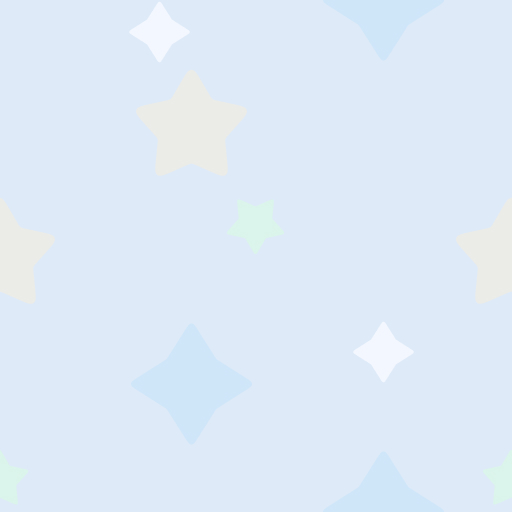
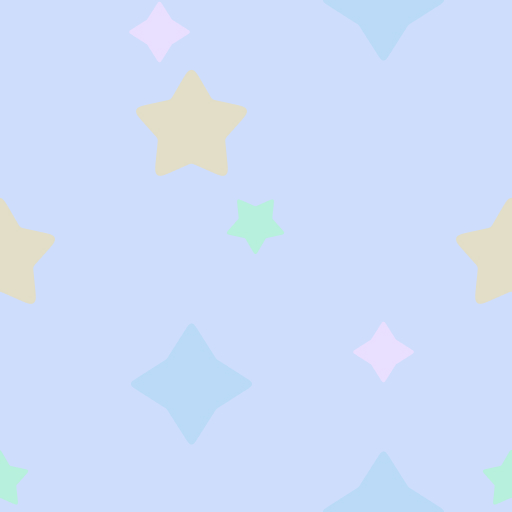
Removing SelectGames from BuildSetts. + BGs + Tab
+ BG patterns: Updating colors
+ Tab: Hidding Debug Log messages

diff --git a/Assets/Scripts/UI/Tab.cs b/Assets/Scripts/UI/Tab.cs
@@ -15,7 +15,7 @@ public class Tab : MonoBehaviour
     {
         TabButton = gameObject.GetComponent<Toggle>();
         //wasOn = !TabButton.isOn;
-        Debug.Log(name + " Awake \twason " + wasOn + "\t isON " + TabButton.isOn);
+        //Debug.Log(name + " Awake \twason " + wasOn + "\t isON " + TabButton.isOn);
     }
 
     protected virtual void Start()
@@ -33,7 +33,7 @@ public class Tab : MonoBehaviour
             wasOn == TabButton.isOn)
             return;
 
-        Debug.Log(name + " UpdateActive \twasOn " + wasOn + "\t isON " + TabButton.isOn);
+        //Debug.Log(name + " UpdateActive \twasOn " + wasOn + "\t isON " + TabButton.isOn);
 
         TabContent.SetActive(TabButton.isOn);
         wasOn = TabButton.isOn;
